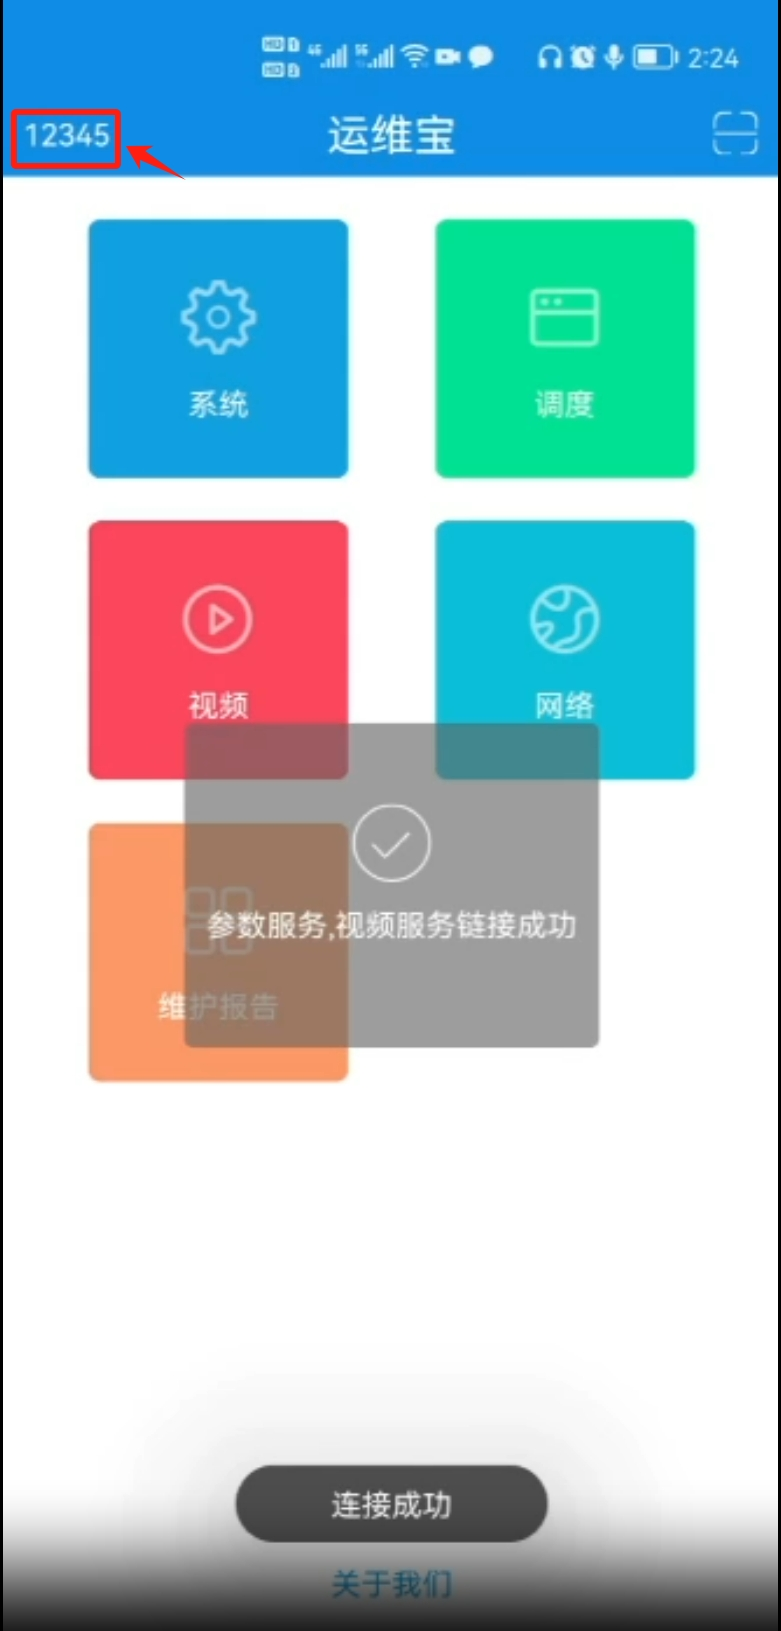
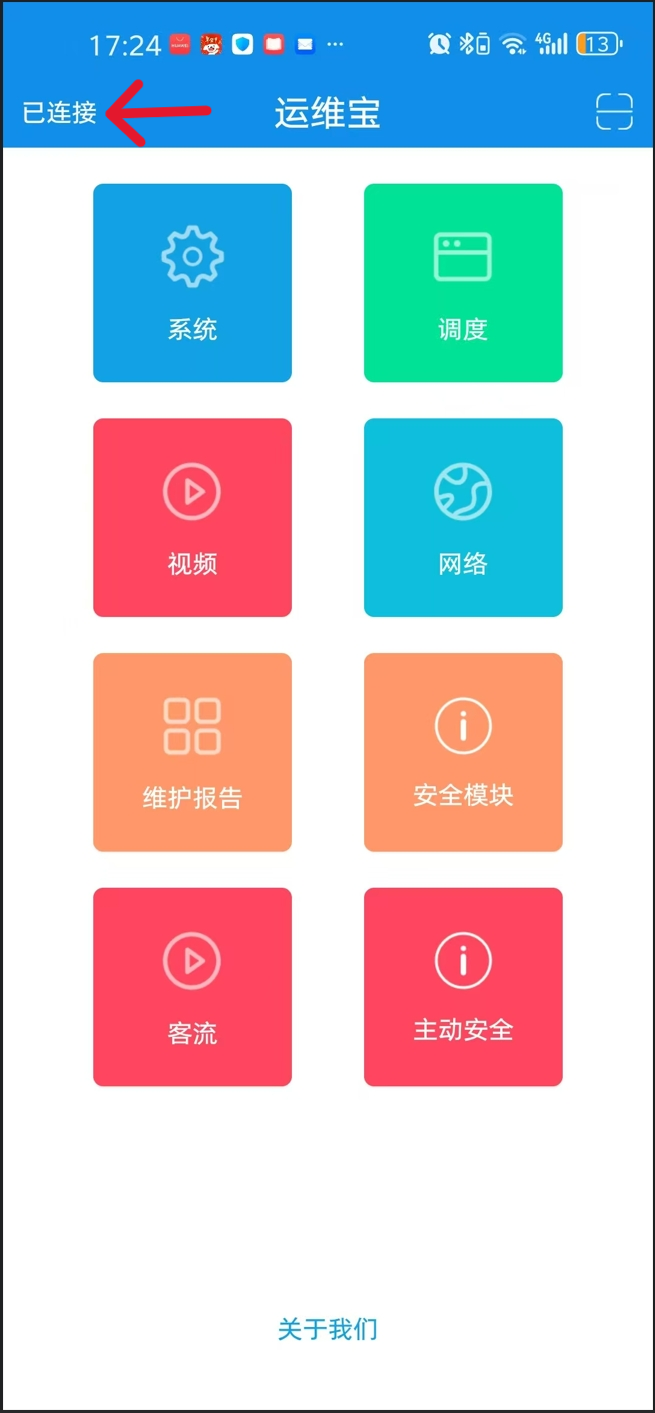
运维宝

diff --git a/docs/zh/article/车载调度/TM8765/TM8765运维宝APP使用.md b/docs/zh/article/车载调度/TM8765/TM8765运维宝APP使用.md
@@ -8,9 +8,9 @@ next:
   link: 无
 ---
 
-# TM8765运维宝APP使用
+# 运维宝APP使用
 
-## 一、运维宝APP下载
+## 一、APP下载
 
 | app名称 | 图片 | 下载地址 |
 | --- | --- | --- |
@@ -43,8 +43,8 @@ next:
 
 #### ③、连接车载机WiFi
 
-![连接车载机wifi.png](/articles/TM8765运维宝APP使用/连接车载机wifi.png =200x)&nbsp;
-![连接车载机成功.png](/articles/TM8765运维宝APP使用/连接车载机成功.png =200x)
+![连接车载机wifi.jpg](/articles/TM8765运维宝APP使用/连接车载机wifi.jpg =300x)&nbsp;
+![连接车载机成功.png](/articles/TM8765运维宝APP使用/连接车载机成功.png =301x649)
 
 ### 3、无显示屏连接车载机
 
@@ -57,4 +57,128 @@ next:
 #### ③、确认ip和端口，建立链接
 
 .![设置wifi.png](/articles/TM8765运维宝APP使用/设置wifi.png =300x)
+
+## 四、参数设置
+
+### 1、系统
+
+#### ①、文件管理
+
+> 系统参数的导入导出
+
+.![系统参数.png](/articles/TM8765运维宝APP使用/系统参数.png =300x)
+
+#### ②、存储介质
+
+.![存储介质.png](/articles/TM8765运维宝APP使用/存储介质.png =300x)
+
+#### ③、升级管理
+
+.![升级管理.png](/articles/TM8765运维宝APP使用/升级管理.png =300x)
+
+#### ④、恢复出厂设置
+
+.![恢复出厂.png](/articles/TM8765运维宝APP使用/恢复出厂.png =300x)
+
+### 2、调度
+
+#### ①、调度服务
+
+.![调度服务.png](/articles/TM8765运维宝APP使用/调度服务.png =300x)
+
+#### ②、音量管理
+
+.![音量管理.png](/articles/TM8765运维宝APP使用/音量管理.png =300x)
+
+#### ③、定位模式
+
+.![定位模式.png](/articles/TM8765运维宝APP使用/定位模式.png =300x)
+
+#### ④、调度管理
+
+.![调度管理.png](/articles/TM8765运维宝APP使用/调度管理.png =300x)
+
+#### ⑤、车辆管理
+
+.![车辆管理.png](/articles/TM8765运维宝APP使用/车辆管理.png =300x)
+
+#### ⑥、车辆信号管理
+
+.![车辆信号管理.png](/articles/TM8765运维宝APP使用/车辆信号管理.png =300x)
+
+#### ⑦、测试工装
+
+.![测试工装.png](/articles/TM8765运维宝APP使用/测试工装.png =300x)
+
+### 3、视频
+
+#### ①、视频服务
+
+.![视频服务.png](/articles/TM8765运维宝APP使用/视频服务.png =300x)
+
+#### ②、输入图像
+
+.![输入图像.png](/articles/TM8765运维宝APP使用/输入图像.png =300x)
+
+#### ③、输出图像
+
+.![输出图像.png](/articles/TM8765运维宝APP使用/输出图像.png =300x)
+
+#### ④、OSD
+
+.![OSD.png](/articles/TM8765运维宝APP使用/OSD.png =300x)
+
+#### ⑤、录像配置
+
+.![录像配置.png](/articles/TM8765运维宝APP使用/录像配置.png =300x)
+
+#### ⑥、回放与导出
+
+.![回放与导出.png](/articles/TM8765运维宝APP使用/回放与导出.png =300x)
+
+#### ⑦、图像抓拍
+
+.![图像抓拍.png](/articles/TM8765运维宝APP使用/图像抓拍.png =300x)
+
+#### ⑧、视频编码
+
+.![视频编码.png](/articles/TM8765运维宝APP使用/视频编码.png =300x)
+
+#### ⑨、系统配置
+
+.![系统配置.png](/articles/TM8765运维宝APP使用/系统配置.png =300x)
+
+#### ⑩、AD配置
+
+.![AD配置.png](/articles/TM8765运维宝APP使用/AD配置.png =300x)
+
+### 4、网络
+
+#### ①、移动数据
+
+.![移动数据.png](/articles/TM8765运维宝APP使用/移动数据.png =300x)
+
+#### ②、以太网
+
+.![以太网.png](/articles/TM8765运维宝APP使用/以太网.png =300x)
+
+#### ③、WLAN
+
+.![WLAN.png](/articles/TM8765运维宝APP使用/WLAN.png =300x)
+
+#### ④、路由
+
+.![路由.png](/articles/TM8765运维宝APP使用/路由.png =300x)
+
+#### ⑤、NAT
+
+.![NAT.png](/articles/TM8765运维宝APP使用/NAT.png =300x)
+
+#### ⑥、流量统计
+
+.![流量统计.png](/articles/TM8765运维宝APP使用/流量统计.png =300x)
+
+#### ⑦、GSM通话
+
+.![GSM通话.png](/articles/TM8765运维宝APP使用/GSM通话.png =300x)
 
